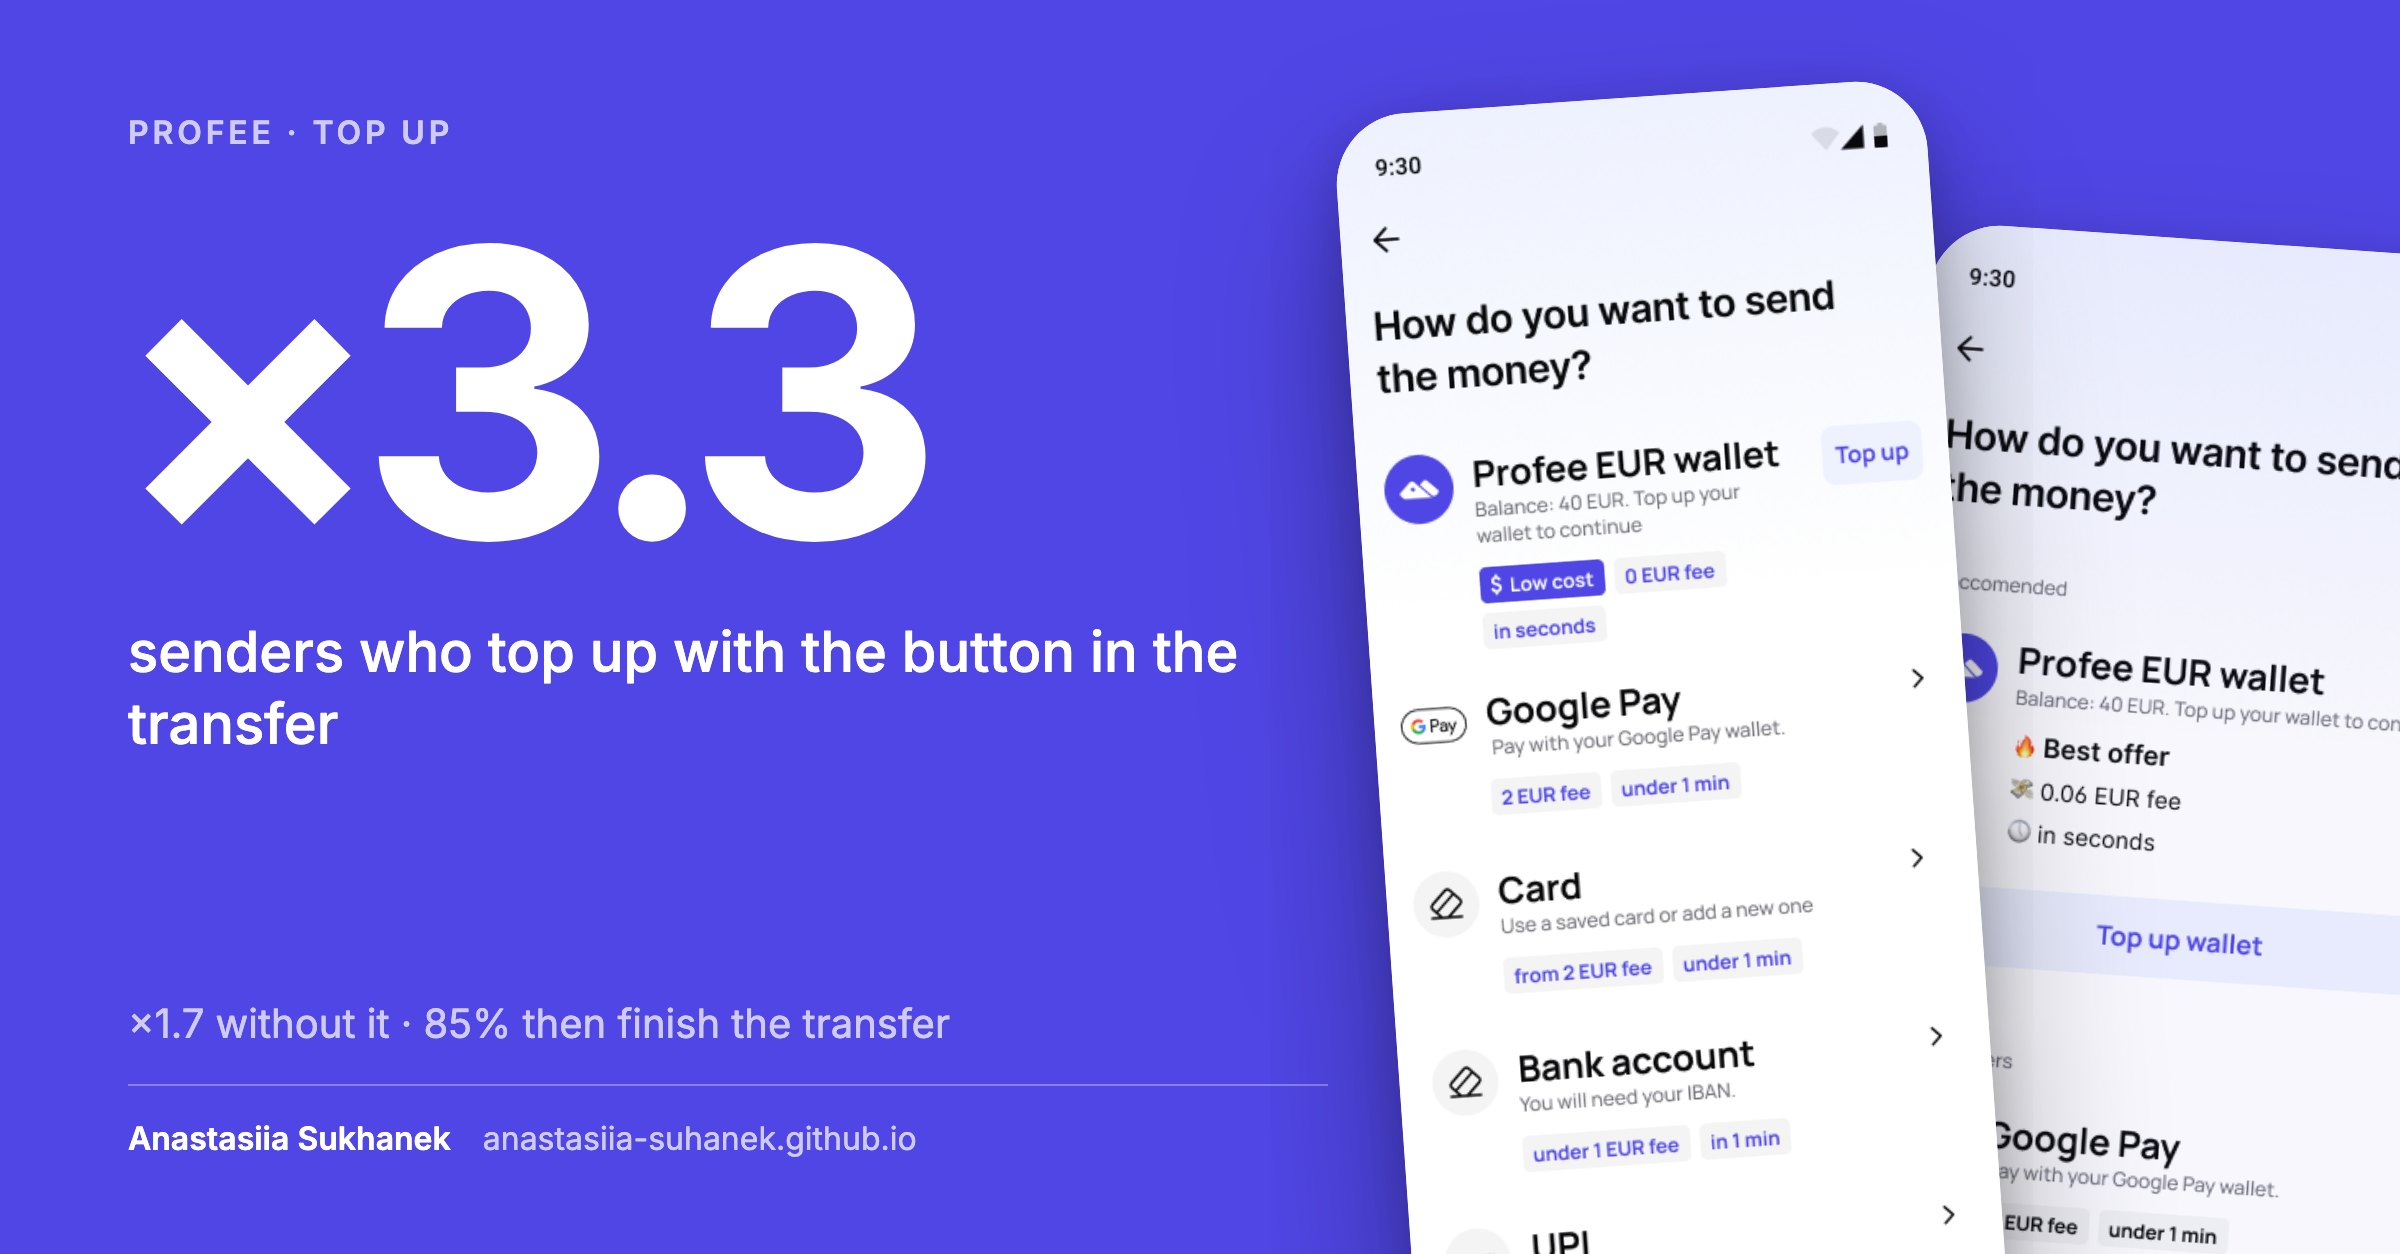
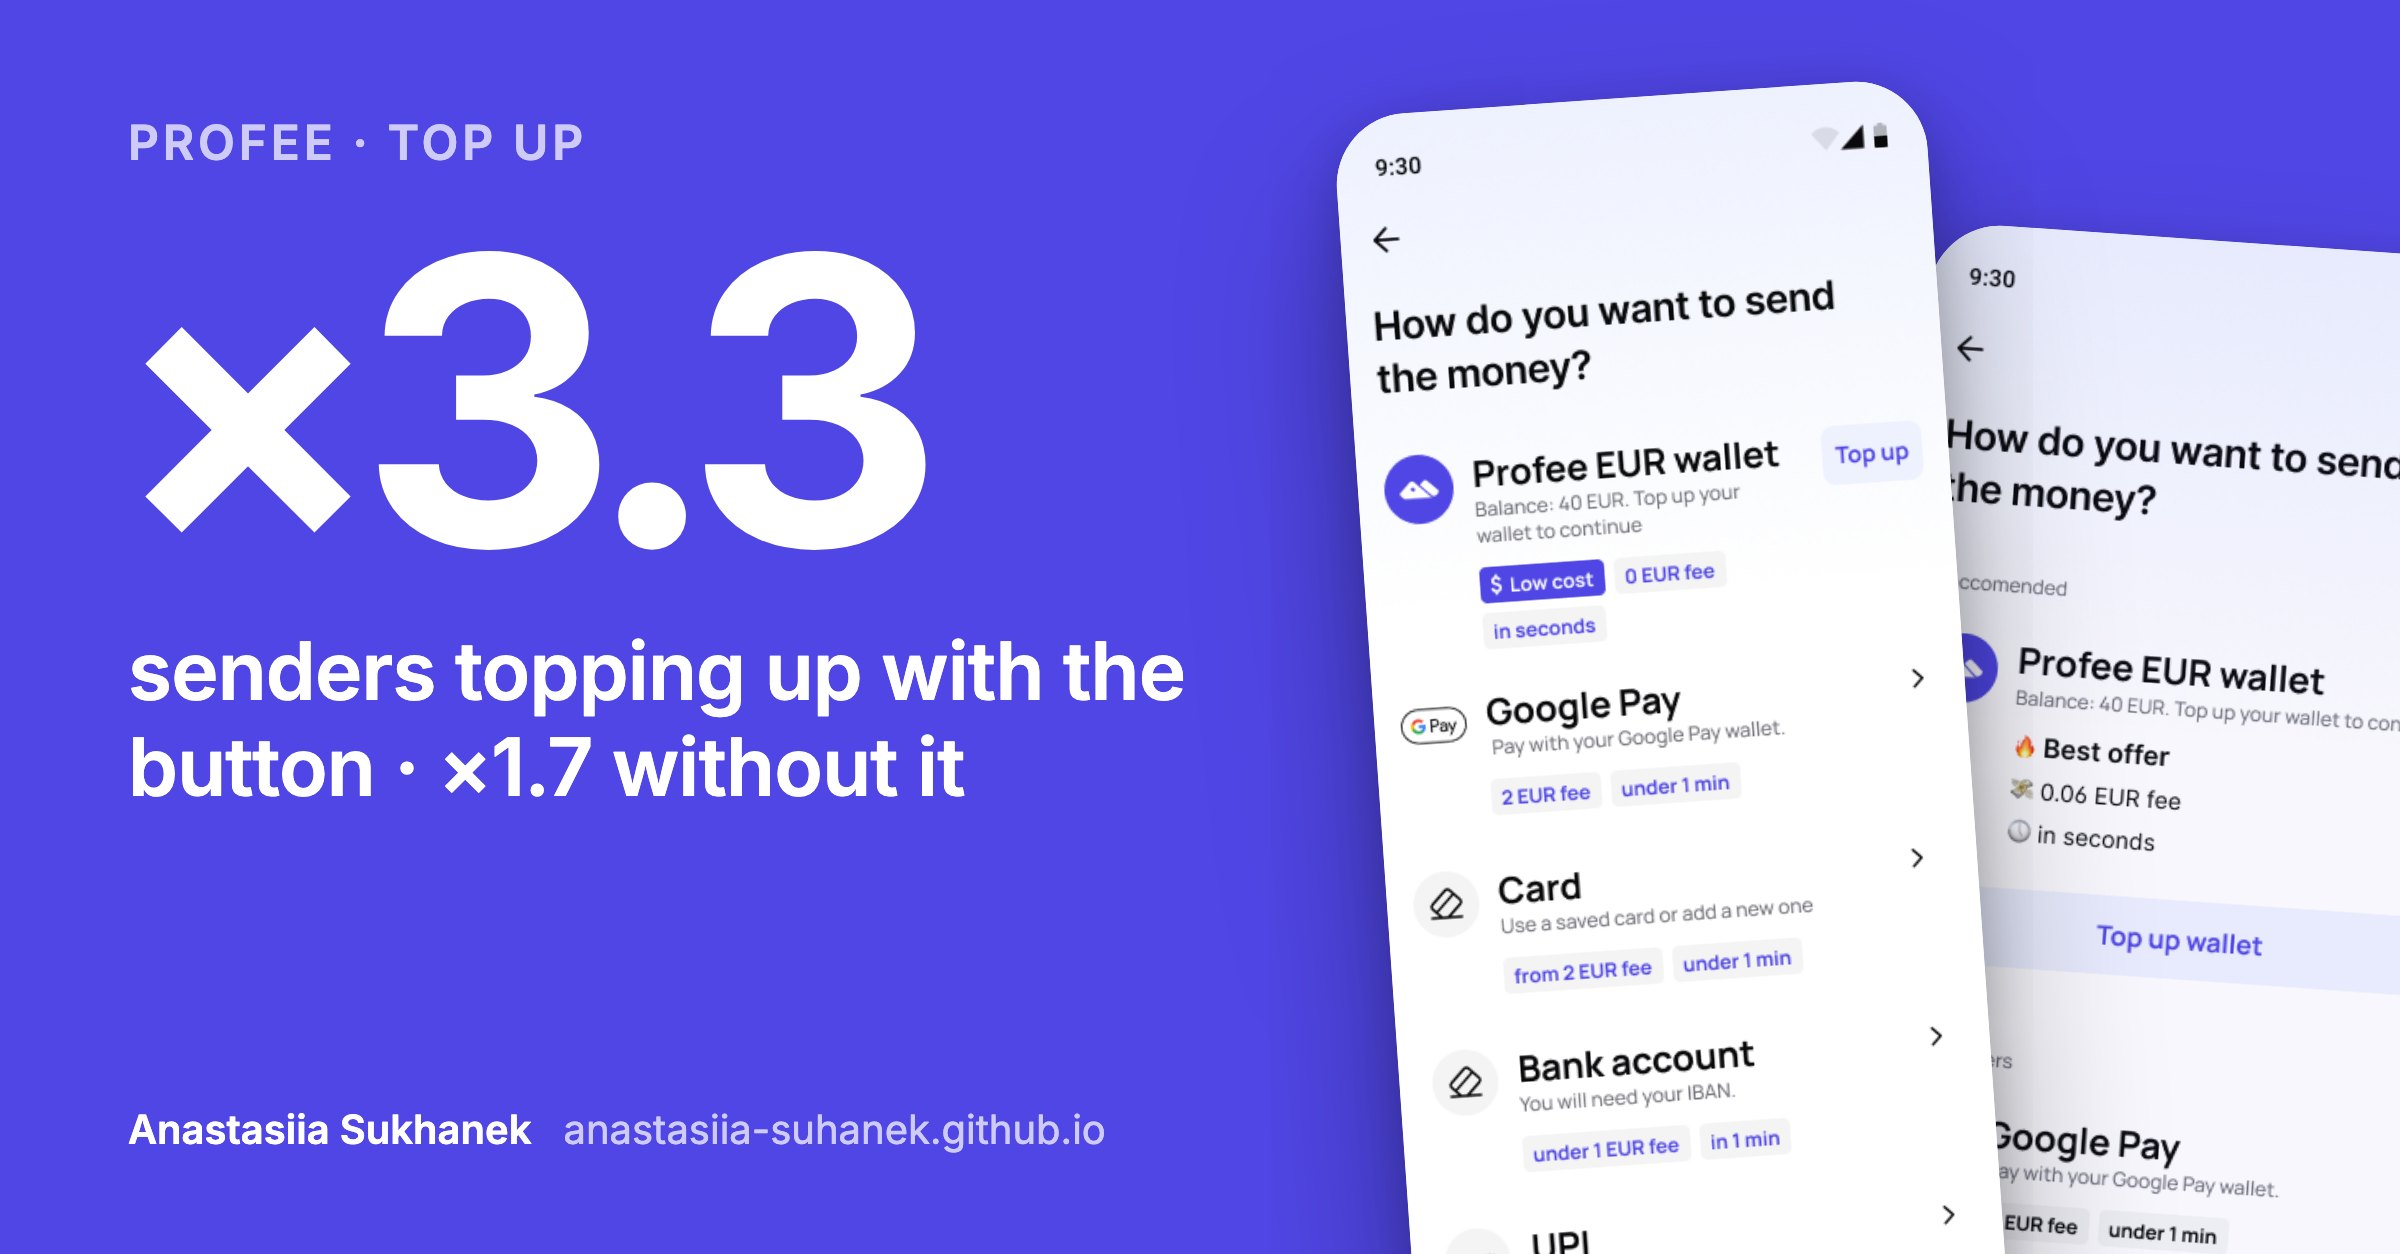
Share covers readable at thumbnail size: 40 px label, 24 px eyebrow, 20 px name, no small caption; Top up keeps the ×1.7 control in the label

diff --git a/case-profee-verification.html b/case-profee-verification.html
@@ -7,7 +7,7 @@
 <meta property="og:type" content="article">
 <meta property="og:title" content="KYC verification: from email to app – Anastasiia Sukhanek">
 <meta property="og:description" content="Case study: 10 KYC verification entry points in the Profee app and web, rebuilt as one design system component. Verification questions to support per new user fell by 54%, and more new users got verified on each platform once the card arrived">
-<meta property="og:image" content="https://anastasiia-suhanek.github.io/images/og/cover-profee-verification.jpg">
+<meta property="og:image" content="https://anastasiia-suhanek.github.io/images/og/cover-profee-verification.jpg?v=2">
 <meta property="og:image:width" content="2400">
 <meta property="og:image:height" content="1254">
 <meta name="twitter:card" content="summary_large_image">

diff --git a/case-profee-cards.html b/case-profee-cards.html
@@ -7,7 +7,7 @@
 <meta property="og:type" content="article">
 <meta property="og:title" content="Profee Cards – Anastasiia Sukhanek">
 <meta property="og:description" content="Case study: rebuilding the Cards product area for Profee on iOS and Android – twice the share of senders opening the Cards tab, and an honest read of what the card did not change.">
-<meta property="og:image" content="https://anastasiia-suhanek.github.io/images/og/cover-profee-cards.jpg">
+<meta property="og:image" content="https://anastasiia-suhanek.github.io/images/og/cover-profee-cards.jpg?v=2">
 <meta property="og:image:width" content="2400">
 <meta property="og:image:height" content="1254">
 <meta name="twitter:card" content="summary_large_image">

diff --git a/case-profee-statuses.html b/case-profee-statuses.html
@@ -7,7 +7,7 @@
 <meta property="og:type" content="article">
 <meta property="og:title" content="Transfer statuses – Anastasiia Sukhanek">
 <meta property="og:description" content="Case study: an Updates timeline for Profee transfers – full transfer history and inline action cards, app and web.">
-<meta property="og:image" content="https://anastasiia-suhanek.github.io/images/og/cover-profee-statuses.jpg">
+<meta property="og:image" content="https://anastasiia-suhanek.github.io/images/og/cover-profee-statuses.jpg?v=2">
 <meta property="og:image:width" content="2400">
 <meta property="og:image:height" content="1254">
 <meta name="twitter:card" content="summary_large_image">

diff --git a/case-profee-topup.html b/case-profee-topup.html
@@ -7,7 +7,7 @@
 <meta property="og:type" content="article">
 <meta property="og:title" content="Top up in the transfer – Anastasiia Sukhanek">
 <meta property="og:description" content="Case study: a Top up button on the Profee wallet in the payment step – three times as many senders topped up.">
-<meta property="og:image" content="https://anastasiia-suhanek.github.io/images/og/cover-profee-topup.jpg">
+<meta property="og:image" content="https://anastasiia-suhanek.github.io/images/og/cover-profee-topup.jpg?v=2">
 <meta property="og:image:width" content="2400">
 <meta property="og:image:height" content="1254">
 <meta name="twitter:card" content="summary_large_image">

diff --git a/case-sber-spasibo.html b/case-sber-spasibo.html
@@ -7,7 +7,7 @@
 <meta property="og:type" content="article">
 <meta property="og:title" content="Gamification at Sber – Anastasiia Sukhanek">
 <meta property="og:description" content="Case study: games and tasks in the SberSpasibo loyalty programme, and moving it from the app to the web.">
-<meta property="og:image" content="https://anastasiia-suhanek.github.io/images/og/cover-sber-spasibo.jpg">
+<meta property="og:image" content="https://anastasiia-suhanek.github.io/images/og/cover-sber-spasibo.jpg?v=2">
 <meta property="og:image:width" content="2400">
 <meta property="og:image:height" content="1254">
 <meta name="twitter:card" content="summary_large_image">
